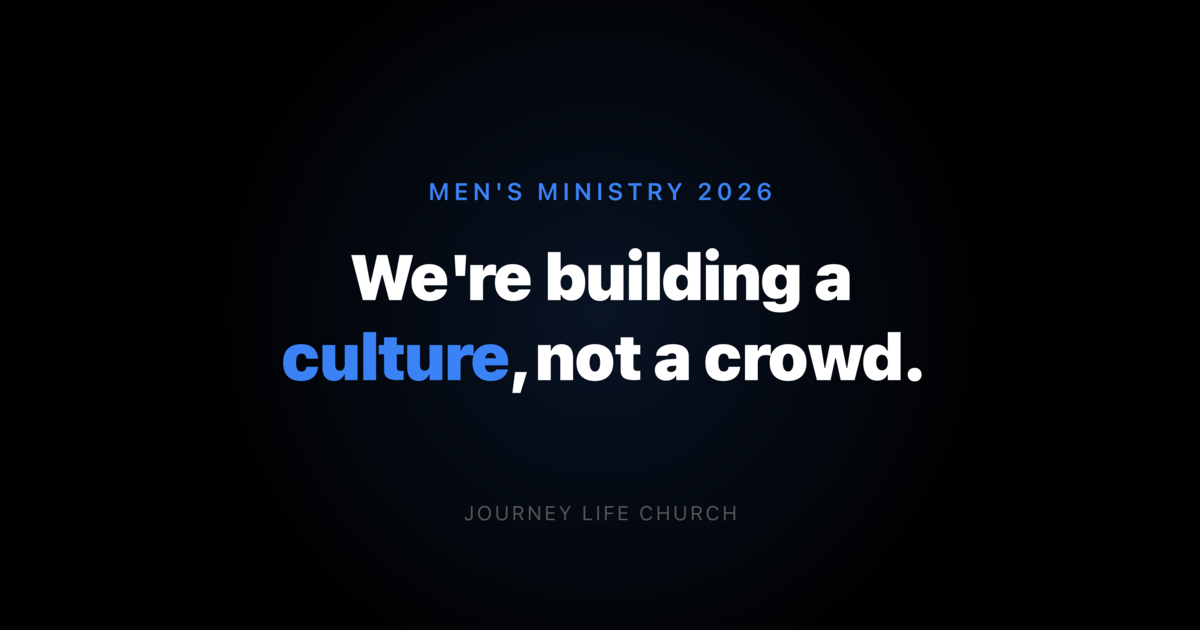
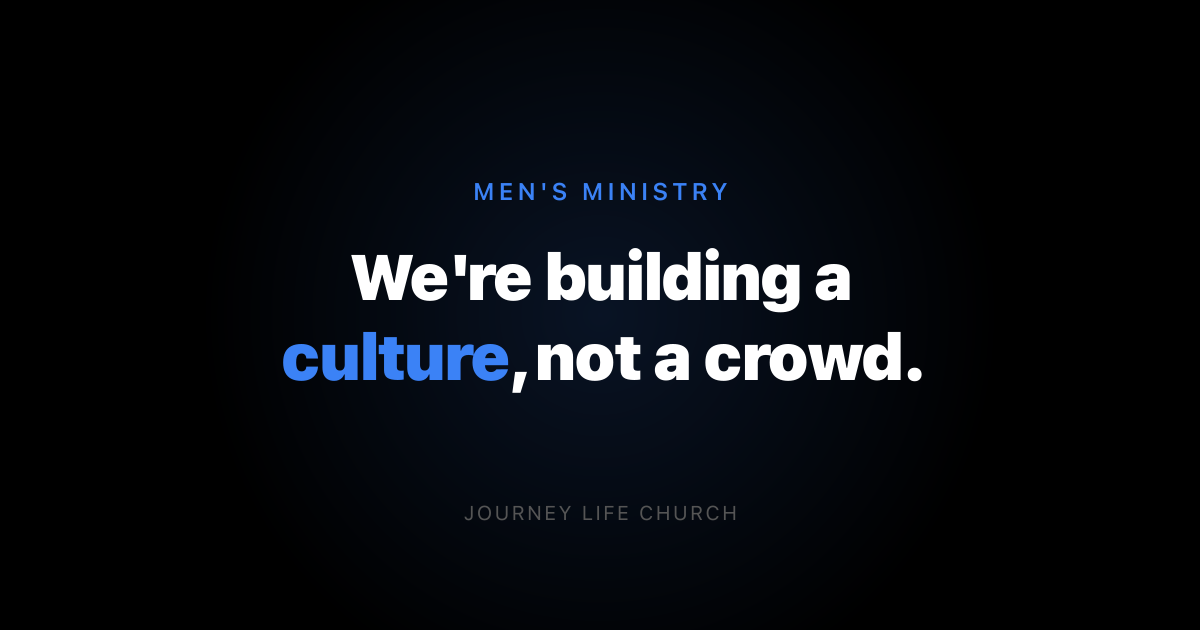
Updating title, og-image, etc.

Changed region(s): [[0.3392, 0.2714, 0.6475, 0.3317]]

diff --git a/src/App.tsx b/src/App.tsx
@@ -116,7 +116,7 @@ export function App() {
     <div className="min-h-screen bg-background text-foreground">
       {/* Header */}
       <header className="fixed top-0 left-0 right-0 z-50 px-6 md:px-10 py-6 flex justify-between items-center bg-gradient-to-b from-background to-transparent">
-        <div className="text-card-foreground text-xs font-bold uppercase tracking-[3px]">
+        <div className="text-card-foreground text-sm font-bold uppercase tracking-[3px]">
           Journey Life Church
         </div>
         <a
@@ -130,7 +130,7 @@ export function App() {
       {/* Hero Section */}
       <section className="snap-section hero-gradient h-screen flex flex-col justify-center items-center text-center px-6 pt-32 pb-20 relative overflow-hidden">
         <p className="text-base md:text-lg uppercase tracking-[5px] text-primary mb-7 font-semibold">
-          Men's Ministry 2026
+          Men's Ministry
         </p>
         <h1 className="text-[clamp(32px,6vw,72px)] font-extrabold text-card-foreground leading-[1.1] mb-8 tracking-[-2px] max-w-[800px]">
           We're building a <span className="text-primary">culture</span>, not a crowd.
@@ -381,7 +381,7 @@ export function App() {
           <a href="https://www.journeylifechurch.com" className="text-text-faint hover:text-card-foreground transition-colors">
             Journey Life Church
           </a>
-          {" · "}Men's Ministry 2026
+          {" · "}Men's Ministry
         </p>
       </footer>
     </div>

diff --git a/src/index.html b/src/index.html
@@ -4,18 +4,18 @@
     <meta charset="UTF-8" />
     <meta name="viewport" content="width=device-width, initial-scale=1.0" />
     <title>Men's Ministry | Journey Life Church</title>
-    <meta name="description" content="We're building a culture, not a crowd. Men's Ministry 2026 at Journey Life Church." />
+    <meta name="description" content="We're building a culture, not a crowd. Men's Ministry at Journey Life Church." />
 
     <!-- Open Graph -->
     <meta property="og:type" content="website" />
-    <meta property="og:title" content="Men's Ministry 2026 | Journey Life Church" />
+    <meta property="og:title" content="Men's Ministry | Journey Life Church" />
     <meta property="og:description" content="We're building a culture, not a crowd. Being a man isn't once a month—it's every day, all the time." />
     <meta property="og:image" content="https://jlc.cultureofmanhood.com/og-image.png" />
     <meta property="og:url" content="https://jlc.cultureofmanhood.com" />
 
     <!-- Twitter Card -->
     <meta name="twitter:card" content="summary_large_image" />
-    <meta name="twitter:title" content="Men's Ministry 2026 | Journey Life Church" />
+    <meta name="twitter:title" content="Men's Ministry | Journey Life Church" />
     <meta name="twitter:description" content="We're building a culture, not a crowd." />
     <meta name="twitter:image" content="https://jlc.cultureofmanhood.com/og-image.png" />
 
